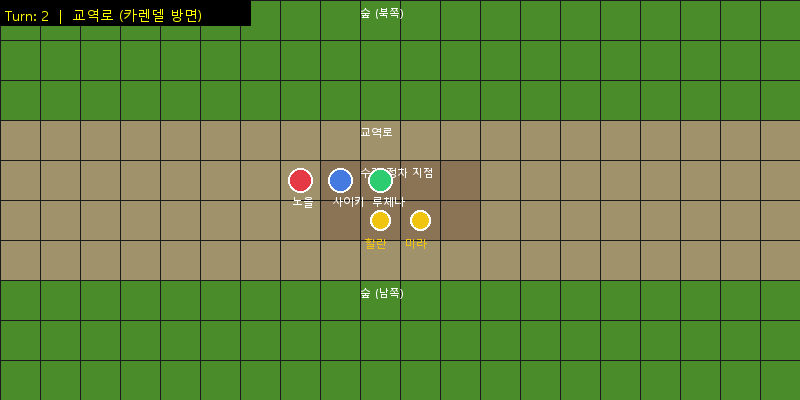
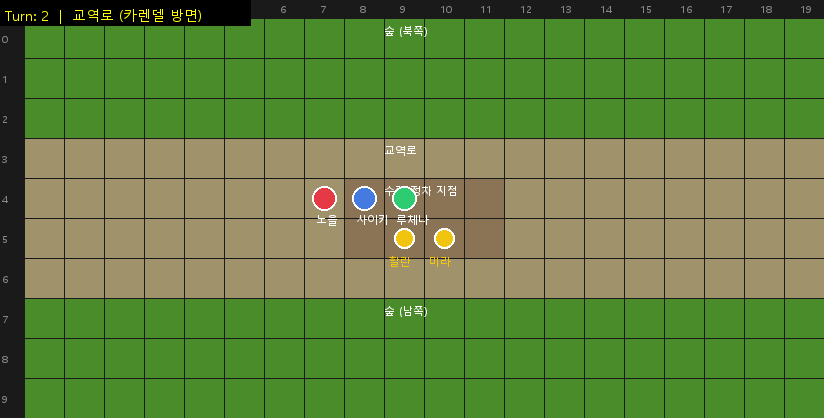
feat: 게임 맵에 가로/세로 좌표 번호 표시
- 맵 상단에 가로 좌표(0~N), 좌측에 세로 좌표(0~N)
- margin 여백 추가 (left 24px, top 18px)
- 모든 맵 요소(영역, NPC, 플레이어, 라벨)에 margin 오프셋 적용
- font_paths를 글로벌 변수로 분리

Changed region(s): [[0.0, 0.0, 1.0, 1.0]]

diff --git a/map_generator.py b/map_generator.py
@@ -5,6 +5,16 @@ import cairo
 import math
 
 
+font_paths_global = [
+    "C:/Windows/Fonts/malgun.ttf",
+    "C:/Windows/Fonts/gulim.ttc",
+    "C:/Windows/Fonts/batang.ttc",
+    "/usr/share/fonts/truetype/noto/NotoSansCJK-Regular.ttc",
+    "/usr/share/fonts/truetype/wqy/wqy-zenhei.ttc",
+    "arial.ttf",
+]
+
+
 class MapGenerator:
     def __init__(self):
         self.tile_size = 40
@@ -44,10 +54,23 @@ class MapGenerator:
             map_h = state["map"]["height"]
             locations = state["map"]["locations"]
 
-        img_w = map_w * self.tile_size
-        img_h = map_h * self.tile_size
-        img = Image.new("RGB", (img_w, img_h), "#2d5a1e")
+        margin_left = 24   # 세로 좌표 표시 여백
+        margin_top = 18    # 가로 좌표 표시 여백
+        grid_w = map_w * self.tile_size
+        grid_h = map_h * self.tile_size
+        img_w = grid_w + margin_left
+        img_h = grid_h + margin_top
+        img = Image.new("RGB", (img_w, img_h), "#1a1a1a")
         draw = ImageDraw.Draw(img)
+
+        # 좌표 표시용 작은 폰트
+        coord_font = ImageFont.load_default()
+        for fp in font_paths_global:
+            try:
+                coord_font = ImageFont.truetype(fp, 10)
+                break
+            except (OSError, IOError):
+                continue
 
         # Draw location areas
         location_colors = {
@@ -58,33 +81,39 @@ class MapGenerator:
             "road": "#A0926B",
             "house": "#6B4226",
         }
+        # 배경 채우기 (그리드 영역)
+        draw.rectangle([margin_left, margin_top, img_w, img_h], fill="#2d5a1e")
+
         for loc in locations:
             area = loc["area"]
-            x1 = area["x1"] * self.tile_size
-            y1 = area["y1"] * self.tile_size
-            x2 = (area["x2"] + 1) * self.tile_size
-            y2 = (area["y2"] + 1) * self.tile_size
+            x1 = area["x1"] * self.tile_size + margin_left
+            y1 = area["y1"] * self.tile_size + margin_top
+            x2 = (area["x2"] + 1) * self.tile_size + margin_left
+            y2 = (area["y2"] + 1) * self.tile_size + margin_top
             color = location_colors.get(loc["type"], "#4a8c2a")
             draw.rectangle([x1, y1, x2, y2], fill=color)
 
-        # Draw grid
-        for x in range(0, img_w + 1, self.tile_size):
-            draw.line([(x, 0), (x, img_h)], fill="#1a1a1a", width=1)
-        for y in range(0, img_h + 1, self.tile_size):
-            draw.line([(0, y), (img_w, y)], fill="#1a1a1a", width=1)
+        # Draw grid + 좌표
+        for i in range(map_w + 1):
+            x = i * self.tile_size + margin_left
+            draw.line([(x, margin_top), (x, img_h)], fill="#1a1a1a", width=1)
+        for i in range(map_h + 1):
+            y = i * self.tile_size + margin_top
+            draw.line([(margin_left, y), (img_w, y)], fill="#1a1a1a", width=1)
+
+        # 가로 좌표 (상단)
+        for i in range(map_w):
+            x = i * self.tile_size + margin_left + self.tile_size // 2 - 4
+            draw.text((x, 2), str(i), fill="#888888", font=coord_font)
+
+        # 세로 좌표 (좌측)
+        for i in range(map_h):
+            y = i * self.tile_size + margin_top + self.tile_size // 2 - 6
+            draw.text((2, y), str(i), fill="#888888", font=coord_font)
 
         # Draw location labels
-        # CJK 지원 폰트 탐색
-        font_paths = [
-            "C:/Windows/Fonts/malgun.ttf",
-            "C:/Windows/Fonts/gulim.ttc",
-            "C:/Windows/Fonts/batang.ttc",
-            "/usr/share/fonts/truetype/noto/NotoSansCJK-Regular.ttc",
-            "/usr/share/fonts/truetype/wqy/wqy-zenhei.ttc",
-            "arial.ttf",
-        ]
         font = font_small = ImageFont.load_default()
-        for fp in font_paths:
+        for fp in font_paths_global:
             try:
                 font = ImageFont.truetype(fp, 14)
                 font_small = ImageFont.truetype(fp, 11)
@@ -94,8 +123,8 @@ class MapGenerator:
 
         for loc in locations:
             area = loc["area"]
-            cx = ((area["x1"] + area["x2"]) / 2) * self.tile_size
-            cy = area["y1"] * self.tile_size + 5
+            cx = ((area["x1"] + area["x2"]) / 2) * self.tile_size + margin_left
+            cy = area["y1"] * self.tile_size + margin_top + 5
             draw.text((cx - 20, cy), loc["name"], fill="white", font=font_small)
 
         # Draw NPCs — different styles by type
@@ -111,8 +140,8 @@ class MapGenerator:
             if current_loc and npc_location and npc_location != current_loc:
                 continue
 
-            cx = px * self.tile_size + self.tile_size // 2
-            cy = py * self.tile_size + self.tile_size // 2
+            cx = px * self.tile_size + self.tile_size // 2 + margin_left
+            cy = py * self.tile_size + self.tile_size // 2 + margin_top
             npc_type = npc.get("type", "neutral")
 
             if npc_type == "monster":
@@ -148,8 +177,8 @@ class MapGenerator:
         }
         for player in state["players"]:
             px, py = player["position"]
-            cx = px * self.tile_size + self.tile_size // 2
-            cy = py * self.tile_size + self.tile_size // 2
+            cx = px * self.tile_size + self.tile_size // 2 + margin_left
+            cy = py * self.tile_size + self.tile_size // 2 + margin_top
             color = player_colors.get(player["class"], "white")
             r = 12
             draw.ellipse([cx - r, cy - r, cx + r, cy + r], fill=color, outline="white", width=2)
